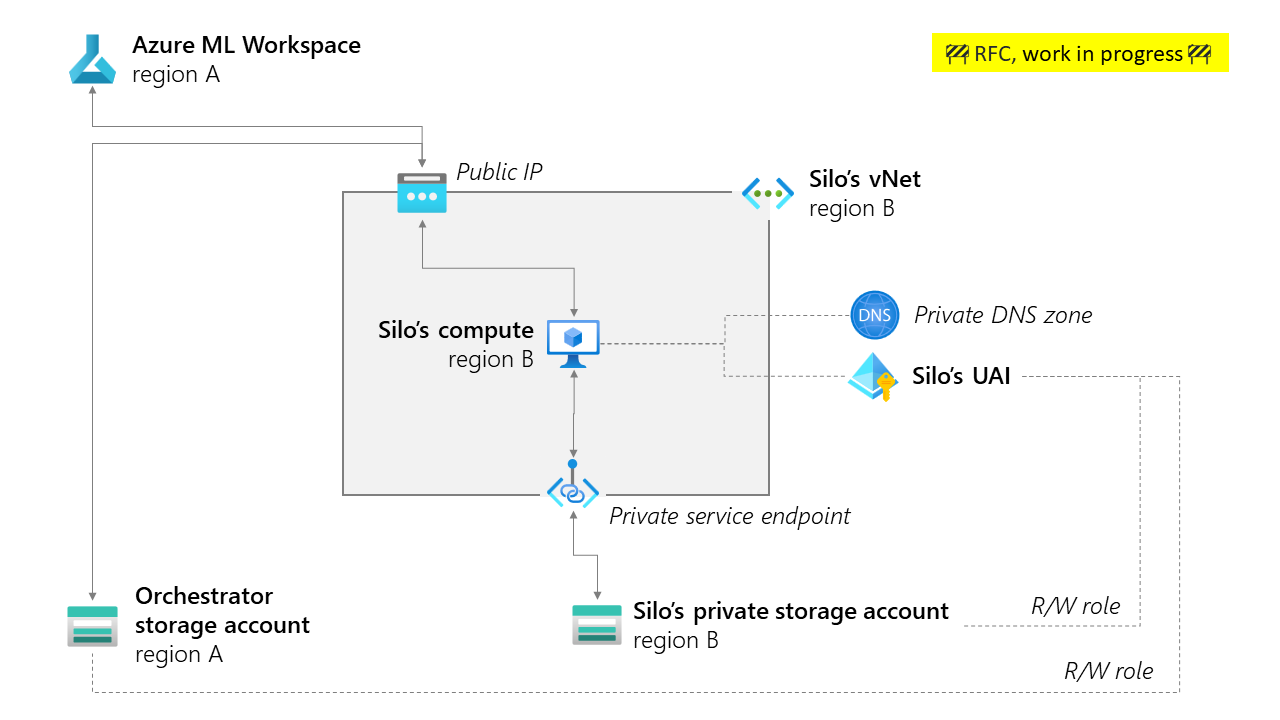
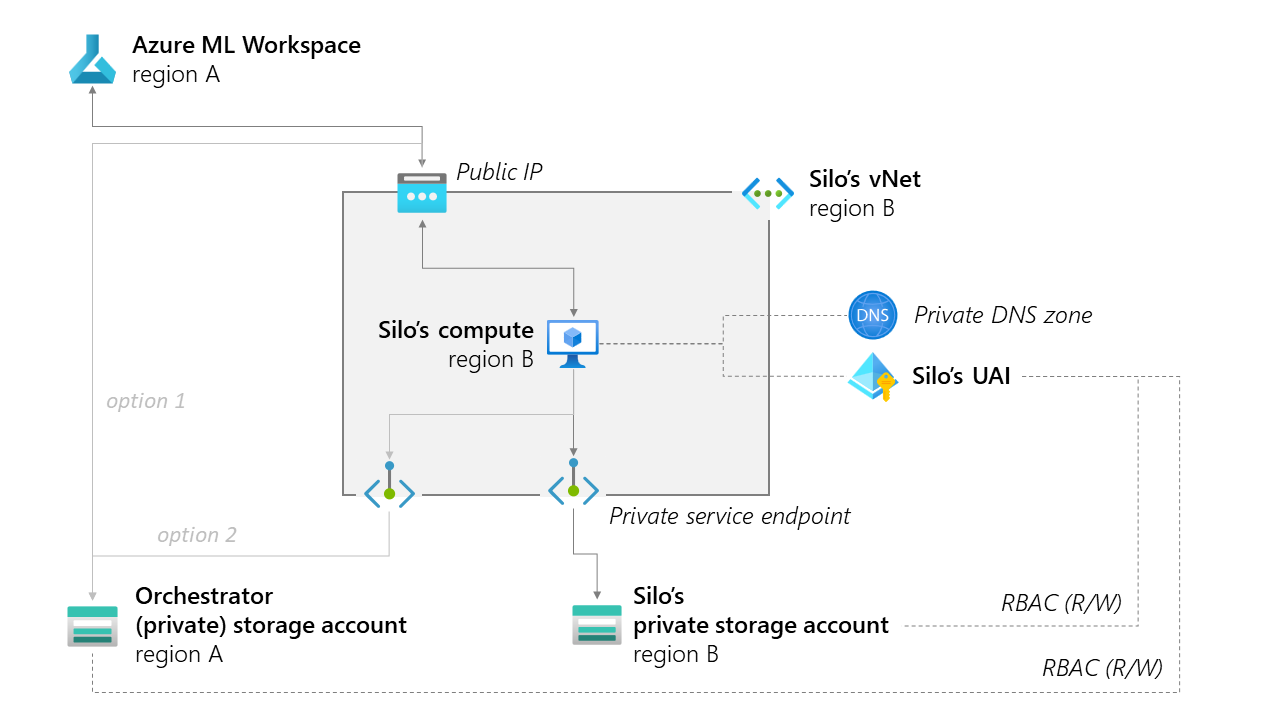
update tutorials for silos to integrate feedback

diff --git a/docs/provisioning/silo_vnet_newstorage.md b/docs/provisioning/silo_vnet_newstorage.md
@@ -50,7 +50,7 @@ In this scenario, the silo's blob storage account's networking settings are such
 > * _Secure your storage account by configuring the storage firewall to block all connections on the public endpoint for the storage service._
 > * _Increase security for the virtual network (VNet), by enabling you to block exfiltration of data from the VNet._
 
-In addition, the compute can interact with the orchestrator storage account, through public network, the UAI being also given R/W permissions to the orchestrator storage.
+In addition, the compute can interact with the **orchestrator storage account**. This storage account can either be 1) "public" meaning only regulated by RBAC, accessible through the public IP and API or 2) private and accessible only through an endpoint. Both options, and their corresponding RBAC roles and private endpoint provisioning have to be **set up separately** (see below).
 
 ## Create a compute and storage pair for the silo
 
@@ -58,7 +58,7 @@ In addition, the compute can interact with the orchestrator storage account, thr
 
 :important: make sure the subnet address space is not overlapping with any other subnet in your vnet, in particular that it is unique accross all your silos and orchestrator. For instance you can use `10.0.0.0/24` for the orchestrator, then `10.0.N.0/24` for each silo, with a distinct N value.
 
-### Option 1: one click deployment
+### Using one click deployment
 
 1. Click on [![Deploy to Azure](https://aka.ms/deploytoazurebutton)](https://portal.azure.com/#create/Microsoft.Template/uri/https%3A%2F%2Fraw.githubusercontent.com%2FAzure-Samples%2Fazure-ml-federated-learning%2Frelease-sdkv2-iteration-03%2Fmlops%2Farm%2Fvnet_compute_storage_pair.json)
 
@@ -70,7 +70,7 @@ In addition, the compute can interact with the orchestrator storage account, thr
     - Pair Region: the region where the compute and storage will be deployed (default: same as resource group).
     - Pair Base Name: a unique name for the **silo**, example `silo1-westus`. This will be used to create all other resources (storage name, compute name, etc.).
 
-### Option 2: using az cli
+### Using az cli
 
 In the resource group of your AzureML workspace, use the following command with parameters corresponding to your setup:
 
@@ -78,7 +78,11 @@ In the resource group of your AzureML workspace, use the following command with 
 az deployment group create --template-file ./mlops/bicep/modules/fl_pairs/vnet_compute_storage_pair.bicep --resource-group <resource group name> --parameters pairBaseName="silo1-westus" pairRegion="westus" machineLearningName="aml-fldemo" machineLearningRegion="eastus" subnetPrefix="10.0.1.0/24"
 ```
 
-## Set permissions for the silo's compute to R/W from/to the orchestrator
+## Set up interactions with the orchestrator
+
+### Option 1: public storage account
+
+All you'll have to set are permissions for the silo's compute to R/W from/to the orchestrator.
 
 1. Navigate the Azure portal to find your resource group.
 
@@ -92,3 +96,7 @@ az deployment group create --template-file ./mlops/bicep/modules/fl_pairs/vnet_c
     - **Storage Account Key Operator Service Role**
 
 4. Click on **Add role assignment** and add each of these same role towards the storage account of your orchestrator.
+
+### Option 2: private storage with endpoints
+
+:construction: work in progress :construction:

diff --git a/docs/provisioning/silo_vnet_existingstorage.md b/docs/provisioning/silo_vnet_existingstorage.md
@@ -41,7 +41,7 @@ It is important in this case that you set the following on your existing storage
 
 :important: make sure the subnet address space is not overlapping with any other subnet in your vnet, in particular that it is unique accross all your silos and orchestrator. For instance you can use `10.0.0.0/24` for the orchestrator, then `10.0.N.0/24` for each silo, with a distinct N value.
 
-### Option 1: one click deployment
+### Using one click deployment
 
 1. Click on [![Deploy to Azure](https://aka.ms/deploytoazurebutton)](https://portal.azure.com/#create/Microsoft.Template/uri/https%3A%2F%2Fraw.githubusercontent.com%2FAzure-Samples%2Fazure-ml-federated-learning%2Frelease-sdkv2-iteration-03%2Fmlops%2Farm%2Fvnet_compute_existing_storage.json)
 
@@ -58,7 +58,7 @@ It is important in this case that you set the following on your existing storage
     - Existing Storage Container Name: name of container where the data will be located.
 
 
-### Option 2: using az cli
+### Using az cli
 
 In the resource group of your AzureML workspace, use the following command with parameters corresponding to your setup:
 
@@ -68,9 +68,7 @@ az deployment group create --template-file ./mlops/bicep/modules/fl_pairs/vnet_c
 
 Make sure `pairRegion` matches with the region of your storage account.
 
-## Set required permissions
-
-### 1. Between the silo's compute and the silo's existing storage account
+## Set required permissions between the silo's compute and the silo's existing storage account
 
 1. Navigate the Azure portal to find your resource group.
 
@@ -86,7 +84,11 @@ Make sure `pairRegion` matches with the region of your storage account.
 4. Click on **Add role assignment** and add each of these same role towards the storage account of your orchestrator.
 
 
-### 2. Between the silo's compute to R/W from/to the orchestrator storage
+## Set up interactions with the orchestrator
+
+### Option 1: public storage account
+
+All you'll have to set are permissions for the silo's compute to R/W from/to the orchestrator.
 
 1. Navigate the Azure portal to find your resource group.
 
@@ -100,3 +102,7 @@ Make sure `pairRegion` matches with the region of your storage account.
     - **Storage Account Key Operator Service Role**
 
 4. Click on **Add role assignment** and add each of these same role towards the storage account of your orchestrator.
+
+### Option 2: private storage with endpoints
+
+:construction: work in progress :construction:
